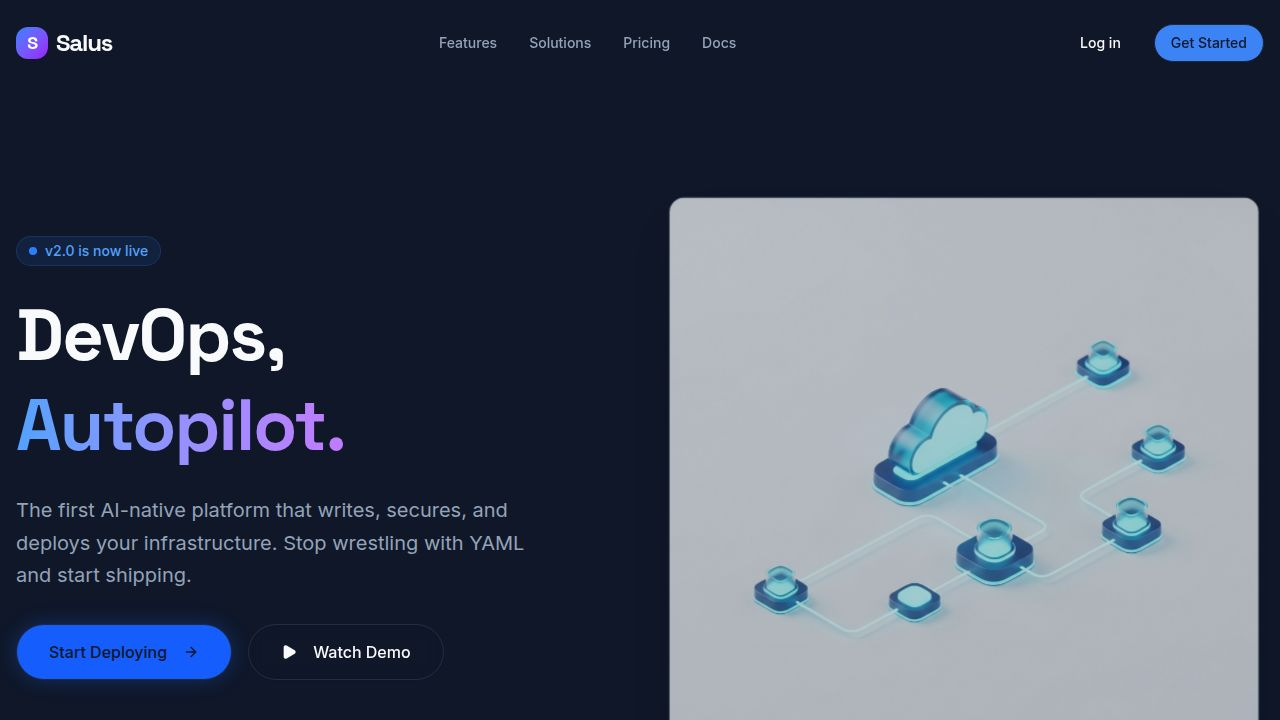
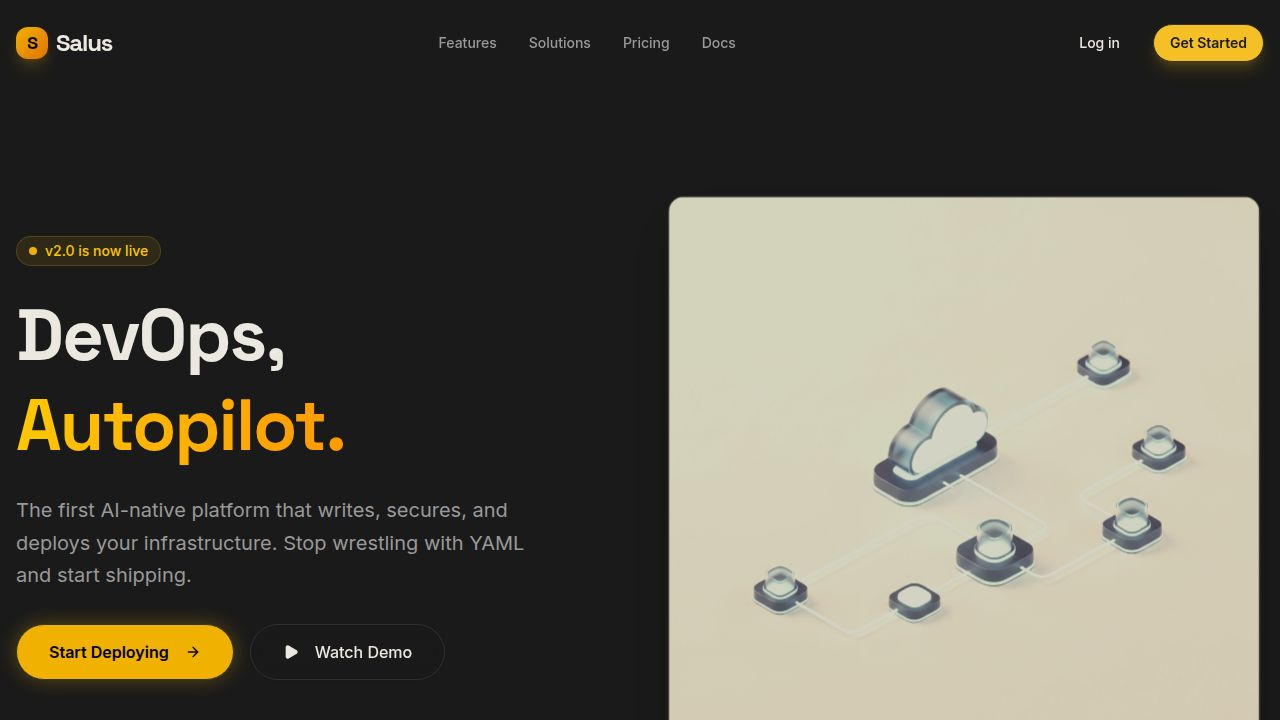
Update website theme to metallic yellow and gold accents
Refactor color palettes and apply metallic yellow/gold theme across UI components, gradients, and code syntax highlighting.

Replit-Commit-Author: Agent
Replit-Commit-Session-Id: 31920c54-f303-4615-8129-397adeae4783
Replit-Commit-Checkpoint-Type: full_checkpoint
Replit-Commit-Event-Id: 686551c7-84ae-445b-8c34-6fa87136672e
Replit-Commit-Screenshot-Url: https://storage.googleapis.com/screenshot-production-us-central1/51dd1999-8787-4c97-816f-e236e37bf7d2/31920c54-f303-4615-8129-397adeae4783/8YK8WZ7
Replit-Helium-Checkpoint-Created: true

diff --git a/client/src/components/layout/footer.tsx b/client/src/components/layout/footer.tsx
@@ -7,8 +7,8 @@ export default function Footer() {
         <div className="grid md:grid-cols-4 gap-12 mb-16">
           <div className="col-span-1 md:col-span-2">
             <Link href="/" className="flex items-center gap-2 font-display font-bold text-2xl tracking-tighter mb-6">
-                <div className="w-8 h-8 rounded-lg bg-gradient-to-br from-blue-500 to-purple-600 flex items-center justify-center">
-                  <span className="text-white text-lg">S</span>
+                <div className="w-8 h-8 rounded-lg bg-gradient-to-br from-yellow-500 to-amber-600 flex items-center justify-center">
+                  <span className="text-black text-lg font-bold">S</span>
                 </div>
                 Salus
             </Link>
@@ -17,31 +17,31 @@ export default function Footer() {
             </p>
             <div className="flex gap-4">
               {/* Social placeholders */}
-              <div className="w-10 h-10 rounded-full bg-background border border-white/10 flex items-center justify-center text-muted-foreground hover:text-white transition-colors cursor-pointer">𝕏</div>
-              <div className="w-10 h-10 rounded-full bg-background border border-white/10 flex items-center justify-center text-muted-foreground hover:text-white transition-colors cursor-pointer">In</div>
-              <div className="w-10 h-10 rounded-full bg-background border border-white/10 flex items-center justify-center text-muted-foreground hover:text-white transition-colors cursor-pointer">Gh</div>
+              <div className="w-10 h-10 rounded-full bg-background border border-white/10 flex items-center justify-center text-muted-foreground hover:text-yellow-400 hover:border-yellow-400/50 transition-colors cursor-pointer">𝕏</div>
+              <div className="w-10 h-10 rounded-full bg-background border border-white/10 flex items-center justify-center text-muted-foreground hover:text-yellow-400 hover:border-yellow-400/50 transition-colors cursor-pointer">In</div>
+              <div className="w-10 h-10 rounded-full bg-background border border-white/10 flex items-center justify-center text-muted-foreground hover:text-yellow-400 hover:border-yellow-400/50 transition-colors cursor-pointer">Gh</div>
             </div>
           </div>
           
           <div>
-            <h4 className="font-bold mb-6">Product</h4>
+            <h4 className="font-bold mb-6 text-foreground">Product</h4>
             <ul className="space-y-4 text-sm text-muted-foreground">
-              <li><a href="#" className="hover:text-white transition-colors">Features</a></li>
-              <li><a href="#" className="hover:text-white transition-colors">Integrations</a></li>
-              <li><a href="#" className="hover:text-white transition-colors">Pricing</a></li>
-              <li><a href="#" className="hover:text-white transition-colors">Changelog</a></li>
-              <li><a href="#" className="hover:text-white transition-colors">Docs</a></li>
+              <li><a href="#" className="hover:text-yellow-400 transition-colors">Features</a></li>
+              <li><a href="#" className="hover:text-yellow-400 transition-colors">Integrations</a></li>
+              <li><a href="#" className="hover:text-yellow-400 transition-colors">Pricing</a></li>
+              <li><a href="#" className="hover:text-yellow-400 transition-colors">Changelog</a></li>
+              <li><a href="#" className="hover:text-yellow-400 transition-colors">Docs</a></li>
             </ul>
           </div>
           
           <div>
-            <h4 className="font-bold mb-6">Company</h4>
+            <h4 className="font-bold mb-6 text-foreground">Company</h4>
             <ul className="space-y-4 text-sm text-muted-foreground">
-              <li><a href="#" className="hover:text-white transition-colors">About Us</a></li>
-              <li><a href="#" className="hover:text-white transition-colors">Careers</a></li>
-              <li><a href="#" className="hover:text-white transition-colors">Blog</a></li>
-              <li><a href="#" className="hover:text-white transition-colors">Contact</a></li>
-              <li><a href="#" className="hover:text-white transition-colors">Privacy Policy</a></li>
+              <li><a href="#" className="hover:text-yellow-400 transition-colors">About Us</a></li>
+              <li><a href="#" className="hover:text-yellow-400 transition-colors">Careers</a></li>
+              <li><a href="#" className="hover:text-yellow-400 transition-colors">Blog</a></li>
+              <li><a href="#" className="hover:text-yellow-400 transition-colors">Contact</a></li>
+              <li><a href="#" className="hover:text-yellow-400 transition-colors">Privacy Policy</a></li>
             </ul>
           </div>
         </div>
@@ -49,9 +49,9 @@ export default function Footer() {
         <div className="border-t border-white/5 pt-8 flex flex-col md:flex-row justify-between items-center gap-4 text-sm text-muted-foreground">
           <p>© 2024 Salus Cloud Inc. All rights reserved.</p>
           <div className="flex gap-8">
-            <a href="#" className="hover:text-white transition-colors">Terms</a>
-            <a href="#" className="hover:text-white transition-colors">Privacy</a>
-            <a href="#" className="hover:text-white transition-colors">Security</a>
+            <a href="#" className="hover:text-yellow-400 transition-colors">Terms</a>
+            <a href="#" className="hover:text-yellow-400 transition-colors">Privacy</a>
+            <a href="#" className="hover:text-yellow-400 transition-colors">Security</a>
           </div>
         </div>
       </div>

diff --git a/client/src/components/sections/hero.tsx b/client/src/components/sections/hero.tsx
@@ -8,8 +8,8 @@ export default function Hero() {
     <section className="relative pt-32 pb-20 md:pt-48 md:pb-32 overflow-hidden">
       {/* Background Gradients */}
       <div className="absolute top-0 left-0 right-0 h-[80vh] bg-gradient-mesh -z-20" />
-      <div className="absolute top-20 right-0 w-[600px] h-[600px] bg-blue-500/10 rounded-full blur-[100px] -z-10" />
-      <div className="absolute bottom-0 left-0 w-[500px] h-[500px] bg-purple-500/10 rounded-full blur-[100px] -z-10" />
+      <div className="absolute top-20 right-0 w-[600px] h-[600px] bg-yellow-500/10 rounded-full blur-[100px] -z-10" />
+      <div className="absolute bottom-0 left-0 w-[500px] h-[500px] bg-amber-500/10 rounded-full blur-[100px] -z-10" />
 
       <div className="container mx-auto px-4">
         <div className="grid lg:grid-cols-2 gap-12 items-center">
@@ -18,10 +18,10 @@ export default function Hero() {
             animate={{ opacity: 1, x: 0 }}
             transition={{ duration: 0.6 }}
           >
-            <div className="inline-flex items-center gap-2 px-3 py-1 rounded-full bg-blue-500/10 border border-blue-500/20 text-blue-400 text-sm font-medium mb-6">
+            <div className="inline-flex items-center gap-2 px-3 py-1 rounded-full bg-yellow-500/10 border border-yellow-500/20 text-yellow-400 text-sm font-medium mb-6">
               <span className="relative flex h-2 w-2">
-                <span className="animate-ping absolute inline-flex h-full w-full rounded-full bg-blue-400 opacity-75"></span>
-                <span className="relative inline-flex rounded-full h-2 w-2 bg-blue-500"></span>
+                <span className="animate-ping absolute inline-flex h-full w-full rounded-full bg-yellow-400 opacity-75"></span>
+                <span className="relative inline-flex rounded-full h-2 w-2 bg-yellow-500"></span>
               </span>
               v2.0 is now live
             </div>
@@ -36,7 +36,7 @@ export default function Hero() {
             </p>
             
             <div className="flex flex-col sm:flex-row gap-4 mb-12">
-              <Button size="lg" className="h-14 px-8 rounded-full text-base bg-blue-600 hover:bg-blue-700 shadow-[0_0_20px_rgba(37,99,235,0.3)]">
+              <Button size="lg" className="h-14 px-8 rounded-full text-base bg-yellow-500 hover:bg-yellow-600 text-black font-bold shadow-[0_0_20px_rgba(234,179,8,0.3)]">
                 Start Deploying <ArrowRight className="ml-2 w-5 h-5" />
               </Button>
               <Button variant="outline" size="lg" className="h-14 px-8 rounded-full text-base border-white/10 hover:bg-white/5 backdrop-blur-sm">
@@ -46,11 +46,11 @@ export default function Hero() {
 
             <div className="flex items-center gap-8 text-sm text-muted-foreground">
               <div className="flex items-center gap-2">
-                <CheckCircle2 className="w-4 h-4 text-green-500" />
+                <CheckCircle2 className="w-4 h-4 text-yellow-500" />
                 <span>No credit card required</span>
               </div>
               <div className="flex items-center gap-2">
-                <CheckCircle2 className="w-4 h-4 text-green-500" />
+                <CheckCircle2 className="w-4 h-4 text-yellow-500" />
                 <span>14-day free trial</span>
               </div>
             </div>
@@ -63,11 +63,11 @@ export default function Hero() {
             className="relative"
           >
             <div className="relative rounded-2xl overflow-hidden border border-white/10 shadow-2xl bg-card/50 backdrop-blur-sm group">
-               <div className="absolute inset-0 bg-gradient-to-tr from-blue-500/10 to-purple-500/10 opacity-0 group-hover:opacity-100 transition-opacity duration-700 pointer-events-none" />
+               <div className="absolute inset-0 bg-gradient-to-tr from-yellow-500/10 to-amber-500/10 opacity-0 group-hover:opacity-100 transition-opacity duration-700 pointer-events-none" />
                <img 
                  src={generatedImage} 
                  alt="Salus Dashboard Interface" 
-                 className="w-full h-auto object-cover opacity-90 hover:scale-105 transition-transform duration-700"
+                 className="w-full h-auto object-cover opacity-90 hover:scale-105 transition-transform duration-700 sepia-[.5] hue-rotate-[15deg] saturate-[.8]"
                />
                
                {/* Floating UI Elements for depth */}
@@ -78,8 +78,8 @@ export default function Hero() {
                  className="absolute bottom-8 left-8 right-8 bg-black/80 backdrop-blur-md border border-white/10 p-4 rounded-xl flex items-center justify-between"
                >
                   <div className="flex items-center gap-3">
-                    <div className="w-2 h-2 rounded-full bg-green-500 animate-pulse" />
-                    <span className="font-mono text-sm text-green-400">System Secure</span>
+                    <div className="w-2 h-2 rounded-full bg-yellow-500 animate-pulse" />
+                    <span className="font-mono text-sm text-yellow-400">System Secure</span>
                   </div>
                   <div className="font-mono text-xs text-muted-foreground">
                     Latency: 12ms

diff --git a/client/src/components/sections/code-demo.tsx b/client/src/components/sections/code-demo.tsx
@@ -71,7 +71,7 @@ export default function CodeDemo() {
                   <code>
                     <span className="text-gray-500"># salus.yaml</span>
                     {"\n"}
-                    <span className="text-purple-400">version</span>: <span className="text-blue-300">2.1</span>
+                    <span className="text-purple-400">version</span>: <span className="text-yellow-200">2.1</span>
                     {"\n\n"}
                     <span className="text-purple-400">pipeline</span>:
                     {"\n"}
@@ -89,21 +89,21 @@ export default function CodeDemo() {
                     {"\n"}
                     <span className="text-purple-400">    scanner</span>: <span className="text-green-300">salus-guard</span>
                     {"\n"}
-                    <span className="text-purple-400">    level</span>: <span className="text-blue-300">strict</span>
+                    <span className="text-purple-400">    level</span>: <span className="text-yellow-200">strict</span>
                     {"\n\n"}
                     <span className="text-yellow-400">  deploy</span>:
                     {"\n"}
                     <span className="text-purple-400">    target</span>: <span className="text-green-300">aws-eks</span>
                     {"\n"}
-                    <span className="text-purple-400">    strategy</span>: <span className="text-blue-300">canary</span>
+                    <span className="text-purple-400">    strategy</span>: <span className="text-yellow-200">canary</span>
                     {"\n"}
                     <span className="text-purple-400">    traffic</span>:
                     {"\n"}
-                    <span className="text-purple-400">      initial</span>: <span className="text-blue-300">10%</span>
+                    <span className="text-purple-400">      initial</span>: <span className="text-yellow-200">10%</span>
                     {"\n"}
-                    <span className="text-purple-400">      step</span>: <span className="text-blue-300">10%</span>
+                    <span className="text-purple-400">      step</span>: <span className="text-yellow-200">10%</span>
                     {"\n"}
-                    <span className="text-purple-400">      interval</span>: <span className="text-blue-300">5m</span>
+                    <span className="text-purple-400">      interval</span>: <span className="text-yellow-200">5m</span>
                   </code>
                 </pre>
               </div>
@@ -126,7 +126,7 @@ export default function CodeDemo() {
                 </div>
               </li>
               <li className="flex items-start gap-3">
-                <div className="mt-1 w-6 h-6 rounded-full bg-blue-500/20 text-blue-400 flex items-center justify-center shrink-0">
+                <div className="mt-1 w-6 h-6 rounded-full bg-yellow-500/20 text-yellow-400 flex items-center justify-center shrink-0">
                   <Check className="w-4 h-4" />
                 </div>
                 <div>

diff --git a/client/src/index.css b/client/src/index.css
@@ -9,39 +9,39 @@
   --radius-lg: 0.75rem;
   --radius-xl: 1rem;
   
-  --color-background: hsl(222 47% 11%);
-  --color-foreground: hsl(210 40% 98%);
+  --color-background: hsl(0 0% 10%); /* Dark industrial gray */
+  --color-foreground: hsl(45 20% 90%);
   
-  --color-card: hsl(217 33% 17%);
-  --color-card-foreground: hsl(210 40% 98%);
+  --color-card: hsl(0 0% 15%);
+  --color-card-foreground: hsl(45 20% 90%);
   
-  --color-popover: hsl(222 47% 11%);
-  --color-popover-foreground: hsl(210 40% 98%);
+  --color-popover: hsl(0 0% 10%);
+  --color-popover-foreground: hsl(45 20% 90%);
   
-  --color-primary: hsl(217 91% 60%);
-  --color-primary-foreground: hsl(222 47% 11%);
+  --color-primary: hsl(45 90% 55%); /* Metallic Gold */
+  --color-primary-foreground: hsl(0 0% 10%);
   
-  --color-secondary: hsl(217 33% 17%);
-  --color-secondary-foreground: hsl(210 40% 98%);
+  --color-secondary: hsl(30 80% 50%); /* Amber/Bronze */
+  --color-secondary-foreground: hsl(45 20% 90%);
   
-  --color-muted: hsl(217 33% 17%);
-  --color-muted-foreground: hsl(215 20% 65%);
+  --color-muted: hsl(0 0% 20%);
+  --color-muted-foreground: hsl(0 0% 60%);
   
-  --color-accent: hsl(217 33% 17%);
-  --color-accent-foreground: hsl(210 40% 98%);
+  --color-accent: hsl(45 20% 20%);
+  --color-accent-foreground: hsl(45 90% 55%);
   
   --color-destructive: hsl(0 62.8% 30.6%);
-  --color-destructive-foreground: hsl(210 40% 98%);
+  --color-destructive-foreground: hsl(0 0% 98%);
   
-  --color-border: hsl(217 33% 17%);
-  --color-input: hsl(217 33% 17%);
-  --color-ring: hsl(212.7 26.8% 83.9%);
+  --color-border: hsl(0 0% 20%);
+  --color-input: hsl(0 0% 20%);
+  --color-ring: hsl(45 90% 55%);
   
-  --color-chart-1: hsl(220 70% 50%);
-  --color-chart-2: hsl(160 60% 45%);
-  --color-chart-3: hsl(30 80% 55%);
-  --color-chart-4: hsl(280 65% 60%);
-  --color-chart-5: hsl(340 75% 55%);
+  --color-chart-1: hsl(45 90% 55%);
+  --color-chart-2: hsl(30 80% 50%);
+  --color-chart-3: hsl(15 70% 50%);
+  --color-chart-4: hsl(0 0% 80%);
+  --color-chart-5: hsl(0 0% 40%);
 
   --font-sans: 'Inter', sans-serif;
   --font-display: 'Space Grotesk', sans-serif;
@@ -61,13 +61,13 @@
 
 /* Custom Gradients */
 .bg-gradient-mesh {
-  background-color: hsla(222, 47%, 11%, 1);
+  background-color: hsl(0 0% 10%);
   background-image: 
-    radial-gradient(at 0% 0%, hsla(253,16%,7%,1) 0, transparent 50%), 
-    radial-gradient(at 50% 0%, hsla(225,39%,30%,1) 0, transparent 50%), 
-    radial-gradient(at 100% 0%, hsla(339,49%,30%,1) 0, transparent 50%);
+    radial-gradient(at 0% 0%, hsla(45,90%,20%,0.3) 0, transparent 50%), 
+    radial-gradient(at 50% 0%, hsla(30,80%,15%,0.3) 0, transparent 50%), 
+    radial-gradient(at 100% 0%, hsla(45,90%,10%,0.3) 0, transparent 50%);
 }
 
 .text-gradient {
-  @apply bg-clip-text text-transparent bg-linear-to-r from-blue-400 to-purple-400;
+  @apply bg-clip-text text-transparent bg-linear-to-r from-yellow-400 to-amber-500;
 }

diff --git a/client/src/components/sections/features.tsx b/client/src/components/sections/features.tsx
@@ -8,17 +8,17 @@ const features = [
     description: "Go from commit to production in under 5 minutes with our hyper-optimized build pipelines."
   },
   {
-    icon: <Shield className="w-6 h-6 text-blue-400" />,
+    icon: <Shield className="w-6 h-6 text-amber-400" />,
     title: "Bank-Grade Security",
     description: "Automated vulnerability scanning and role-based access control built into every layer."
   },
   {
-    icon: <Cpu className="w-6 h-6 text-purple-400" />,
+    icon: <Cpu className="w-6 h-6 text-orange-400" />,
     title: "AI-Powered Ops",
     description: "Our AI agents monitor your infrastructure 24/7, predicting and preventing downtime."
   },
   {
-    icon: <Cloud className="w-6 h-6 text-cyan-400" />,
+    icon: <Cloud className="w-6 h-6 text-yellow-200" />,
     title: "Multi-Cloud Native",
     description: "Deploy to AWS, GCP, and Azure simultaneously without changing a single line of config."
   },
@@ -28,7 +28,7 @@ const features = [
     description: "Every request is authenticated, authorized, and encrypted. Trust no one, verify everything."
   },
   {
-    icon: <GitBranch className="w-6 h-6 text-orange-400" />,
+    icon: <GitBranch className="w-6 h-6 text-yellow-600" />,
     title: "Automated Workflows",
     description: "Connect GitHub or GitLab and let Salus handle the rest. Branch previews included."
   }
@@ -53,12 +53,12 @@ export default function Features() {
               whileInView={{ opacity: 1, y: 0 }}
               transition={{ duration: 0.5, delay: index * 0.1 }}
               viewport={{ once: true }}
-              className="group p-8 rounded-2xl bg-card border border-white/5 hover:border-white/10 transition-all hover:bg-card/80 hover:shadow-2xl hover:shadow-blue-500/10"
+              className="group p-8 rounded-2xl bg-card border border-white/5 hover:border-yellow-500/30 transition-all hover:bg-card/80 hover:shadow-2xl hover:shadow-yellow-500/10"
             >
-              <div className="w-12 h-12 rounded-lg bg-background border border-white/10 flex items-center justify-center mb-6 group-hover:scale-110 transition-transform duration-300">
+              <div className="w-12 h-12 rounded-lg bg-background border border-white/10 flex items-center justify-center mb-6 group-hover:scale-110 transition-transform duration-300 group-hover:border-yellow-500/50">
                 {feature.icon}
               </div>
-              <h3 className="text-xl font-bold mb-3 group-hover:text-blue-400 transition-colors">{feature.title}</h3>
+              <h3 className="text-xl font-bold mb-3 group-hover:text-yellow-400 transition-colors">{feature.title}</h3>
               <p className="text-muted-foreground leading-relaxed">
                 {feature.description}
               </p>

diff --git a/client/src/components/layout/navbar.tsx b/client/src/components/layout/navbar.tsx
@@ -31,10 +31,10 @@ export default function Navbar() {
     >
       <div className="container mx-auto px-4 flex items-center justify-between">
         <Link href="/" className="flex items-center gap-2 font-display font-bold text-2xl tracking-tighter">
-            <div className="w-8 h-8 rounded-lg bg-gradient-to-br from-blue-500 to-purple-600 flex items-center justify-center">
-              <span className="text-white text-lg">S</span>
+            <div className="w-8 h-8 rounded-lg bg-gradient-to-br from-yellow-500 to-amber-600 flex items-center justify-center shadow-lg shadow-yellow-500/20">
+              <span className="text-black text-lg font-bold">S</span>
             </div>
-            Salus
+            <span className="text-foreground">Salus</span>
         </Link>
 
         {/* Desktop Nav */}
@@ -43,7 +43,7 @@ export default function Navbar() {
             <a
               key={link.name}
               href={link.href}
-              className="text-sm font-medium text-muted-foreground hover:text-foreground transition-colors"
+              className="text-sm font-medium text-muted-foreground hover:text-yellow-400 transition-colors"
             >
               {link.name}
             </a>
@@ -51,10 +51,10 @@ export default function Navbar() {
         </div>
 
         <div className="hidden md:flex items-center gap-4">
-          <Button variant="ghost" className="text-foreground hover:bg-muted/50">
+          <Button variant="ghost" className="text-foreground hover:bg-muted/50 hover:text-yellow-400">
             Log in
           </Button>
-          <Button className="rounded-full bg-primary text-primary-foreground hover:bg-primary/90">
+          <Button className="rounded-full bg-primary text-primary-foreground hover:bg-primary/90 font-bold shadow-lg shadow-yellow-500/20">
             Get Started
           </Button>
         </div>
@@ -90,7 +90,7 @@ export default function Navbar() {
               ))}
               <div className="flex flex-col gap-3 mt-4">
                 <Button variant="outline" className="w-full justify-center">Log in</Button>
-                <Button className="w-full justify-center">Get Started</Button>
+                <Button className="w-full justify-center bg-yellow-500 text-black font-bold">Get Started</Button>
               </div>
             </div>
           </motion.div>
